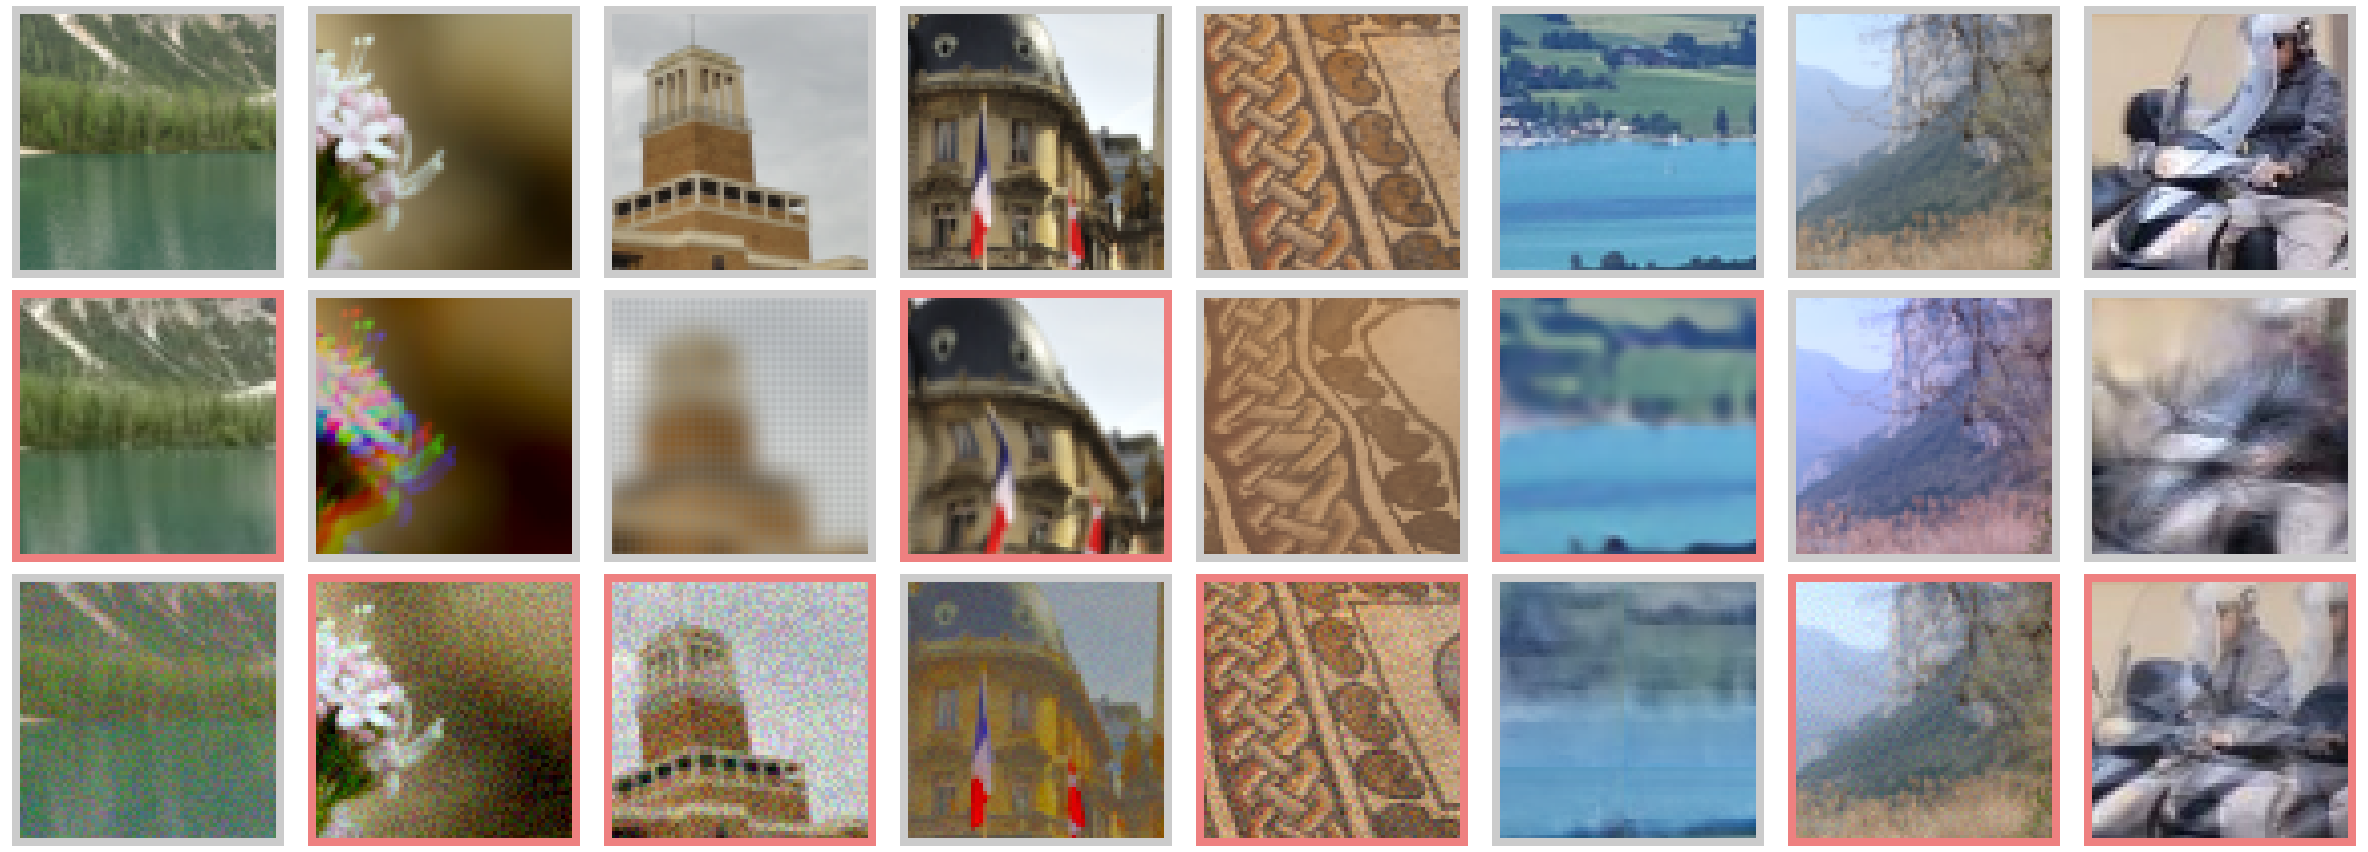
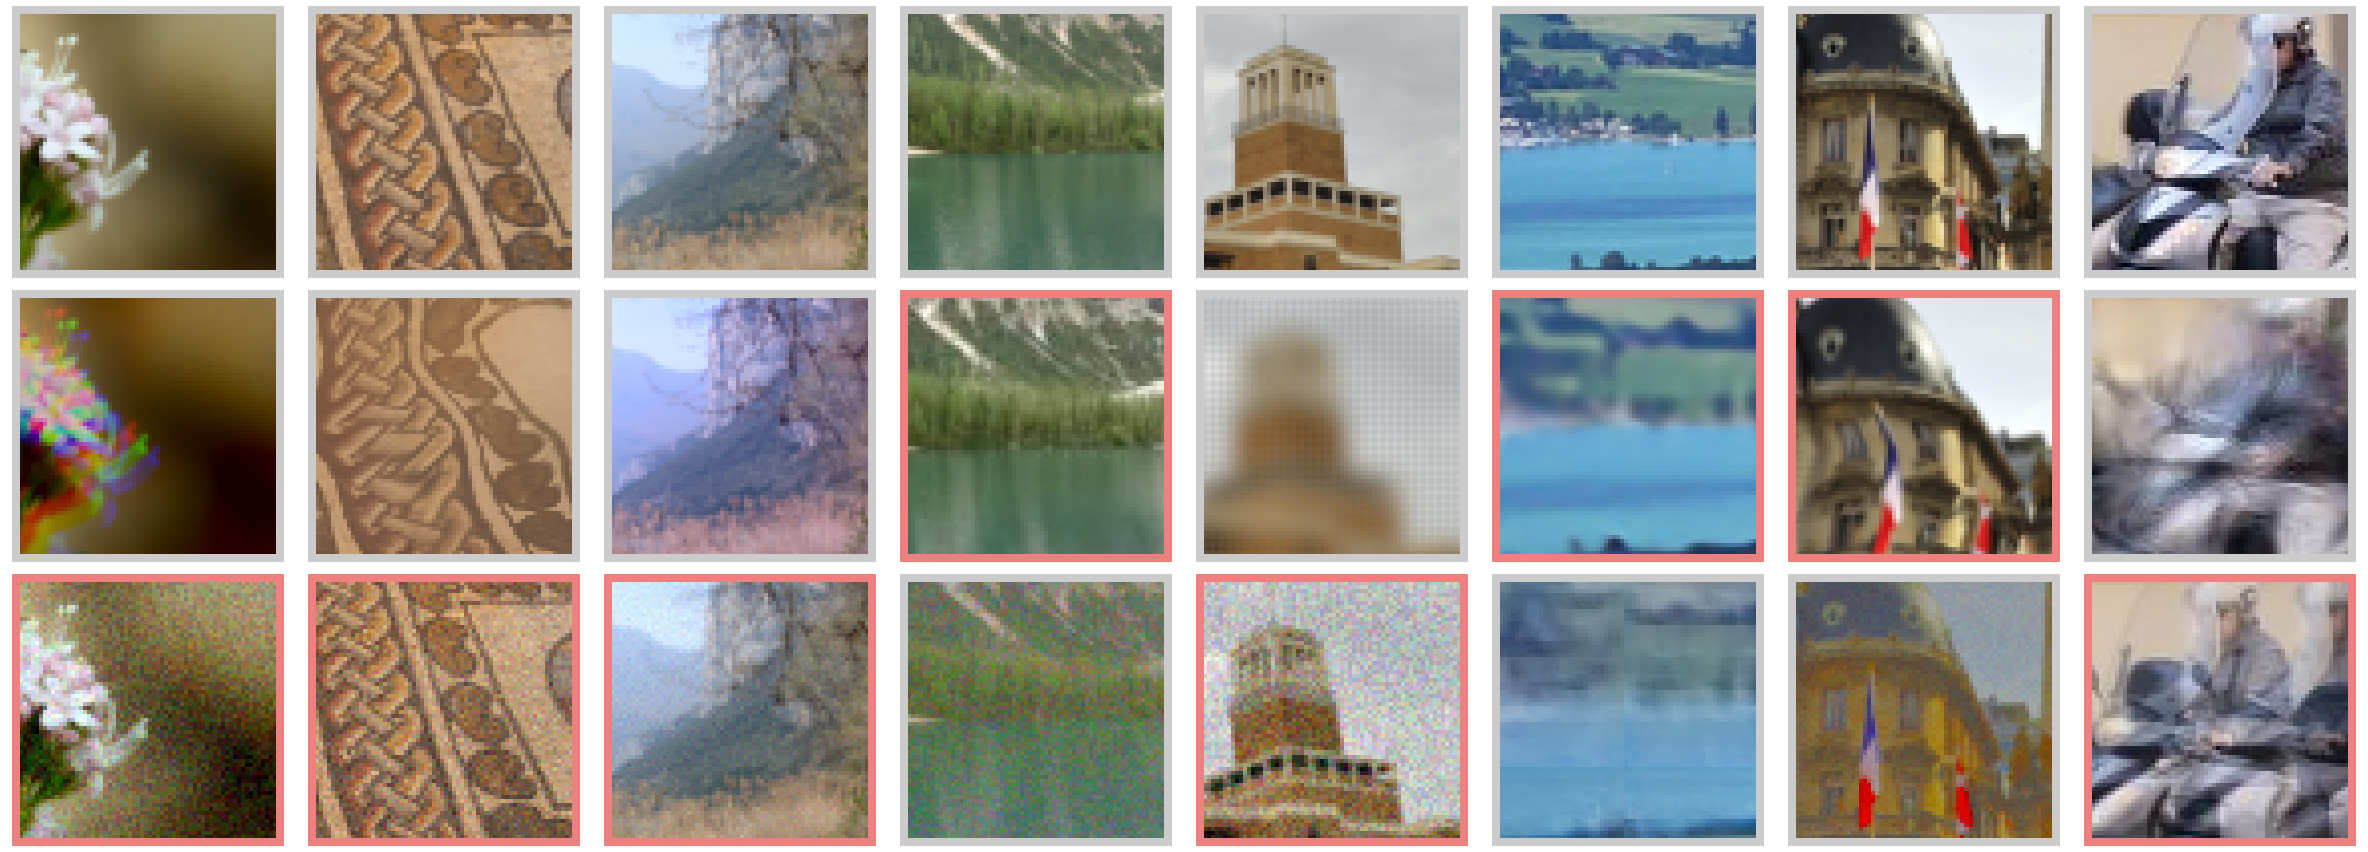
random fig generation

diff --git a/src/2afc_error_cases/make_figure.py b/src/2afc_error_cases/make_figure.py
@@ -95,7 +95,10 @@ deep_better = data[data["Wat-Deep"] == -1.0]
 # combine datasets
 filtered_data = wat_better.append(deep_better)
 
-# shuffle data
-filtered_data = filtered_data.sample(frac=1).reset_index(drop=True)
 
-make_figure(filtered_data, "fig.png")
+for i in range(10):
+    # shuffle data
+    filtered_data = filtered_data.sample(frac=1, random_state=i).reset_index(drop=True)
+
+    # make fig
+    make_figure(filtered_data, f"2AFC_error_cases_random_{i}.png")
